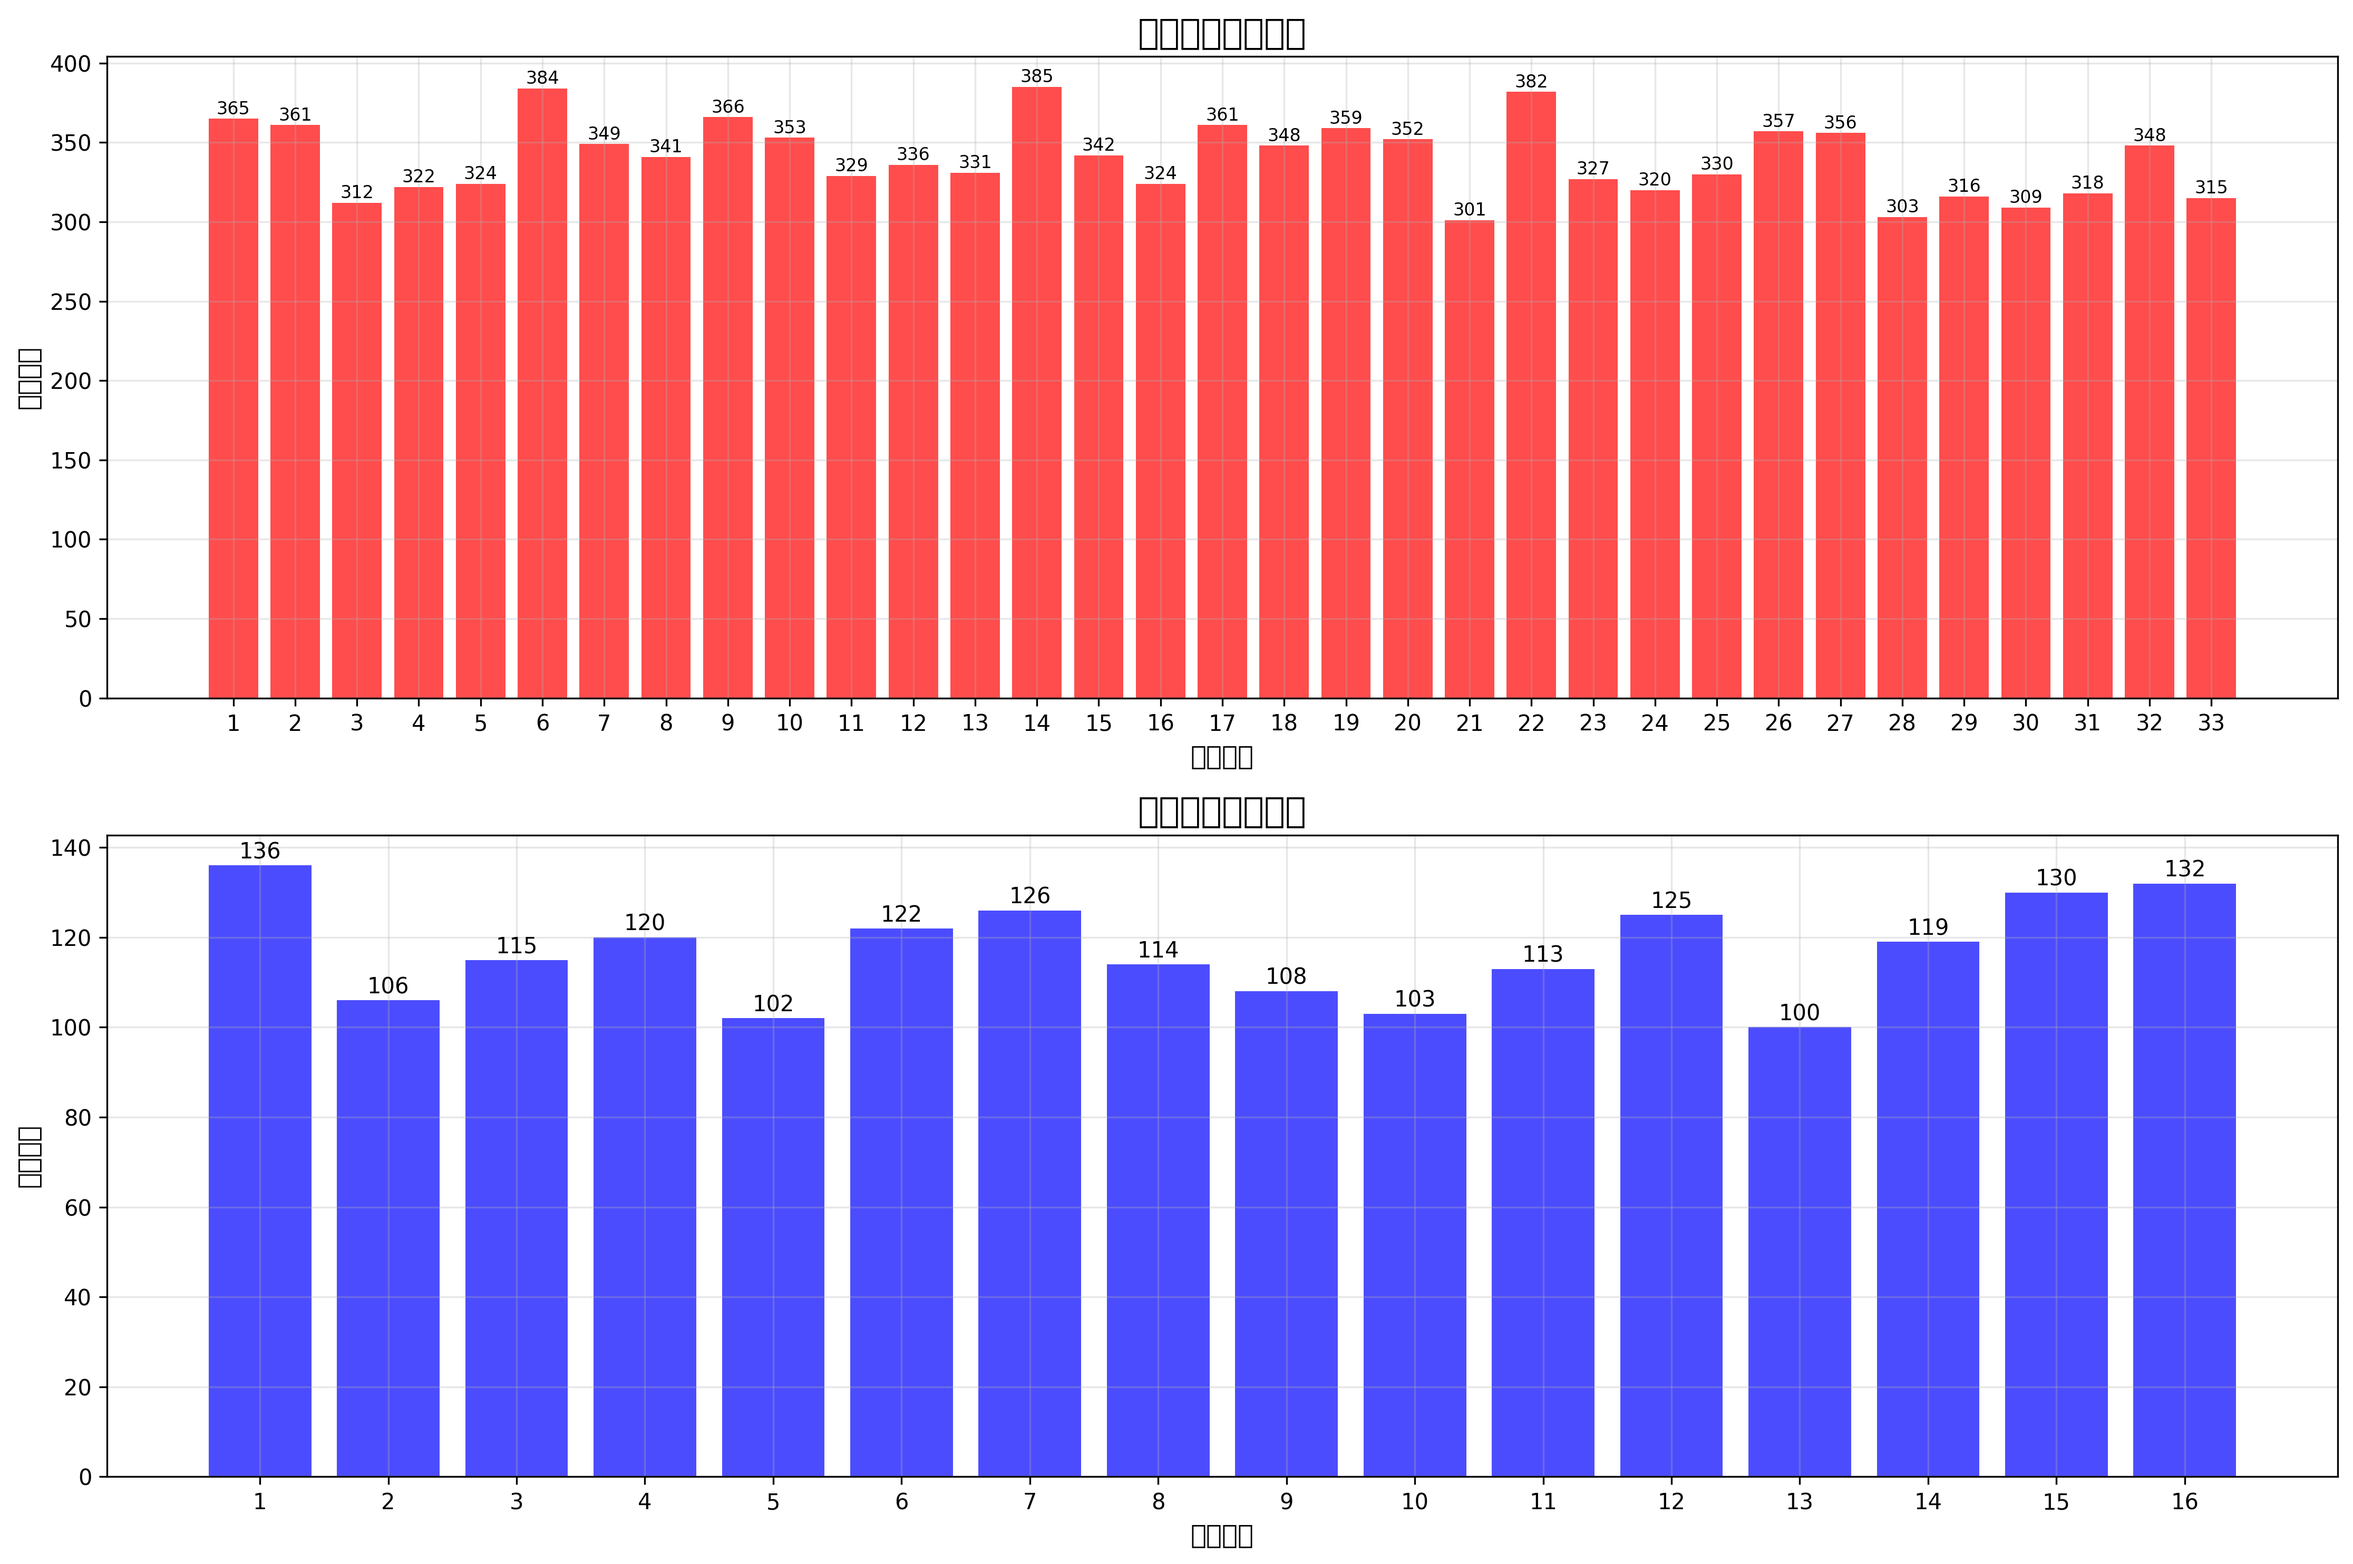
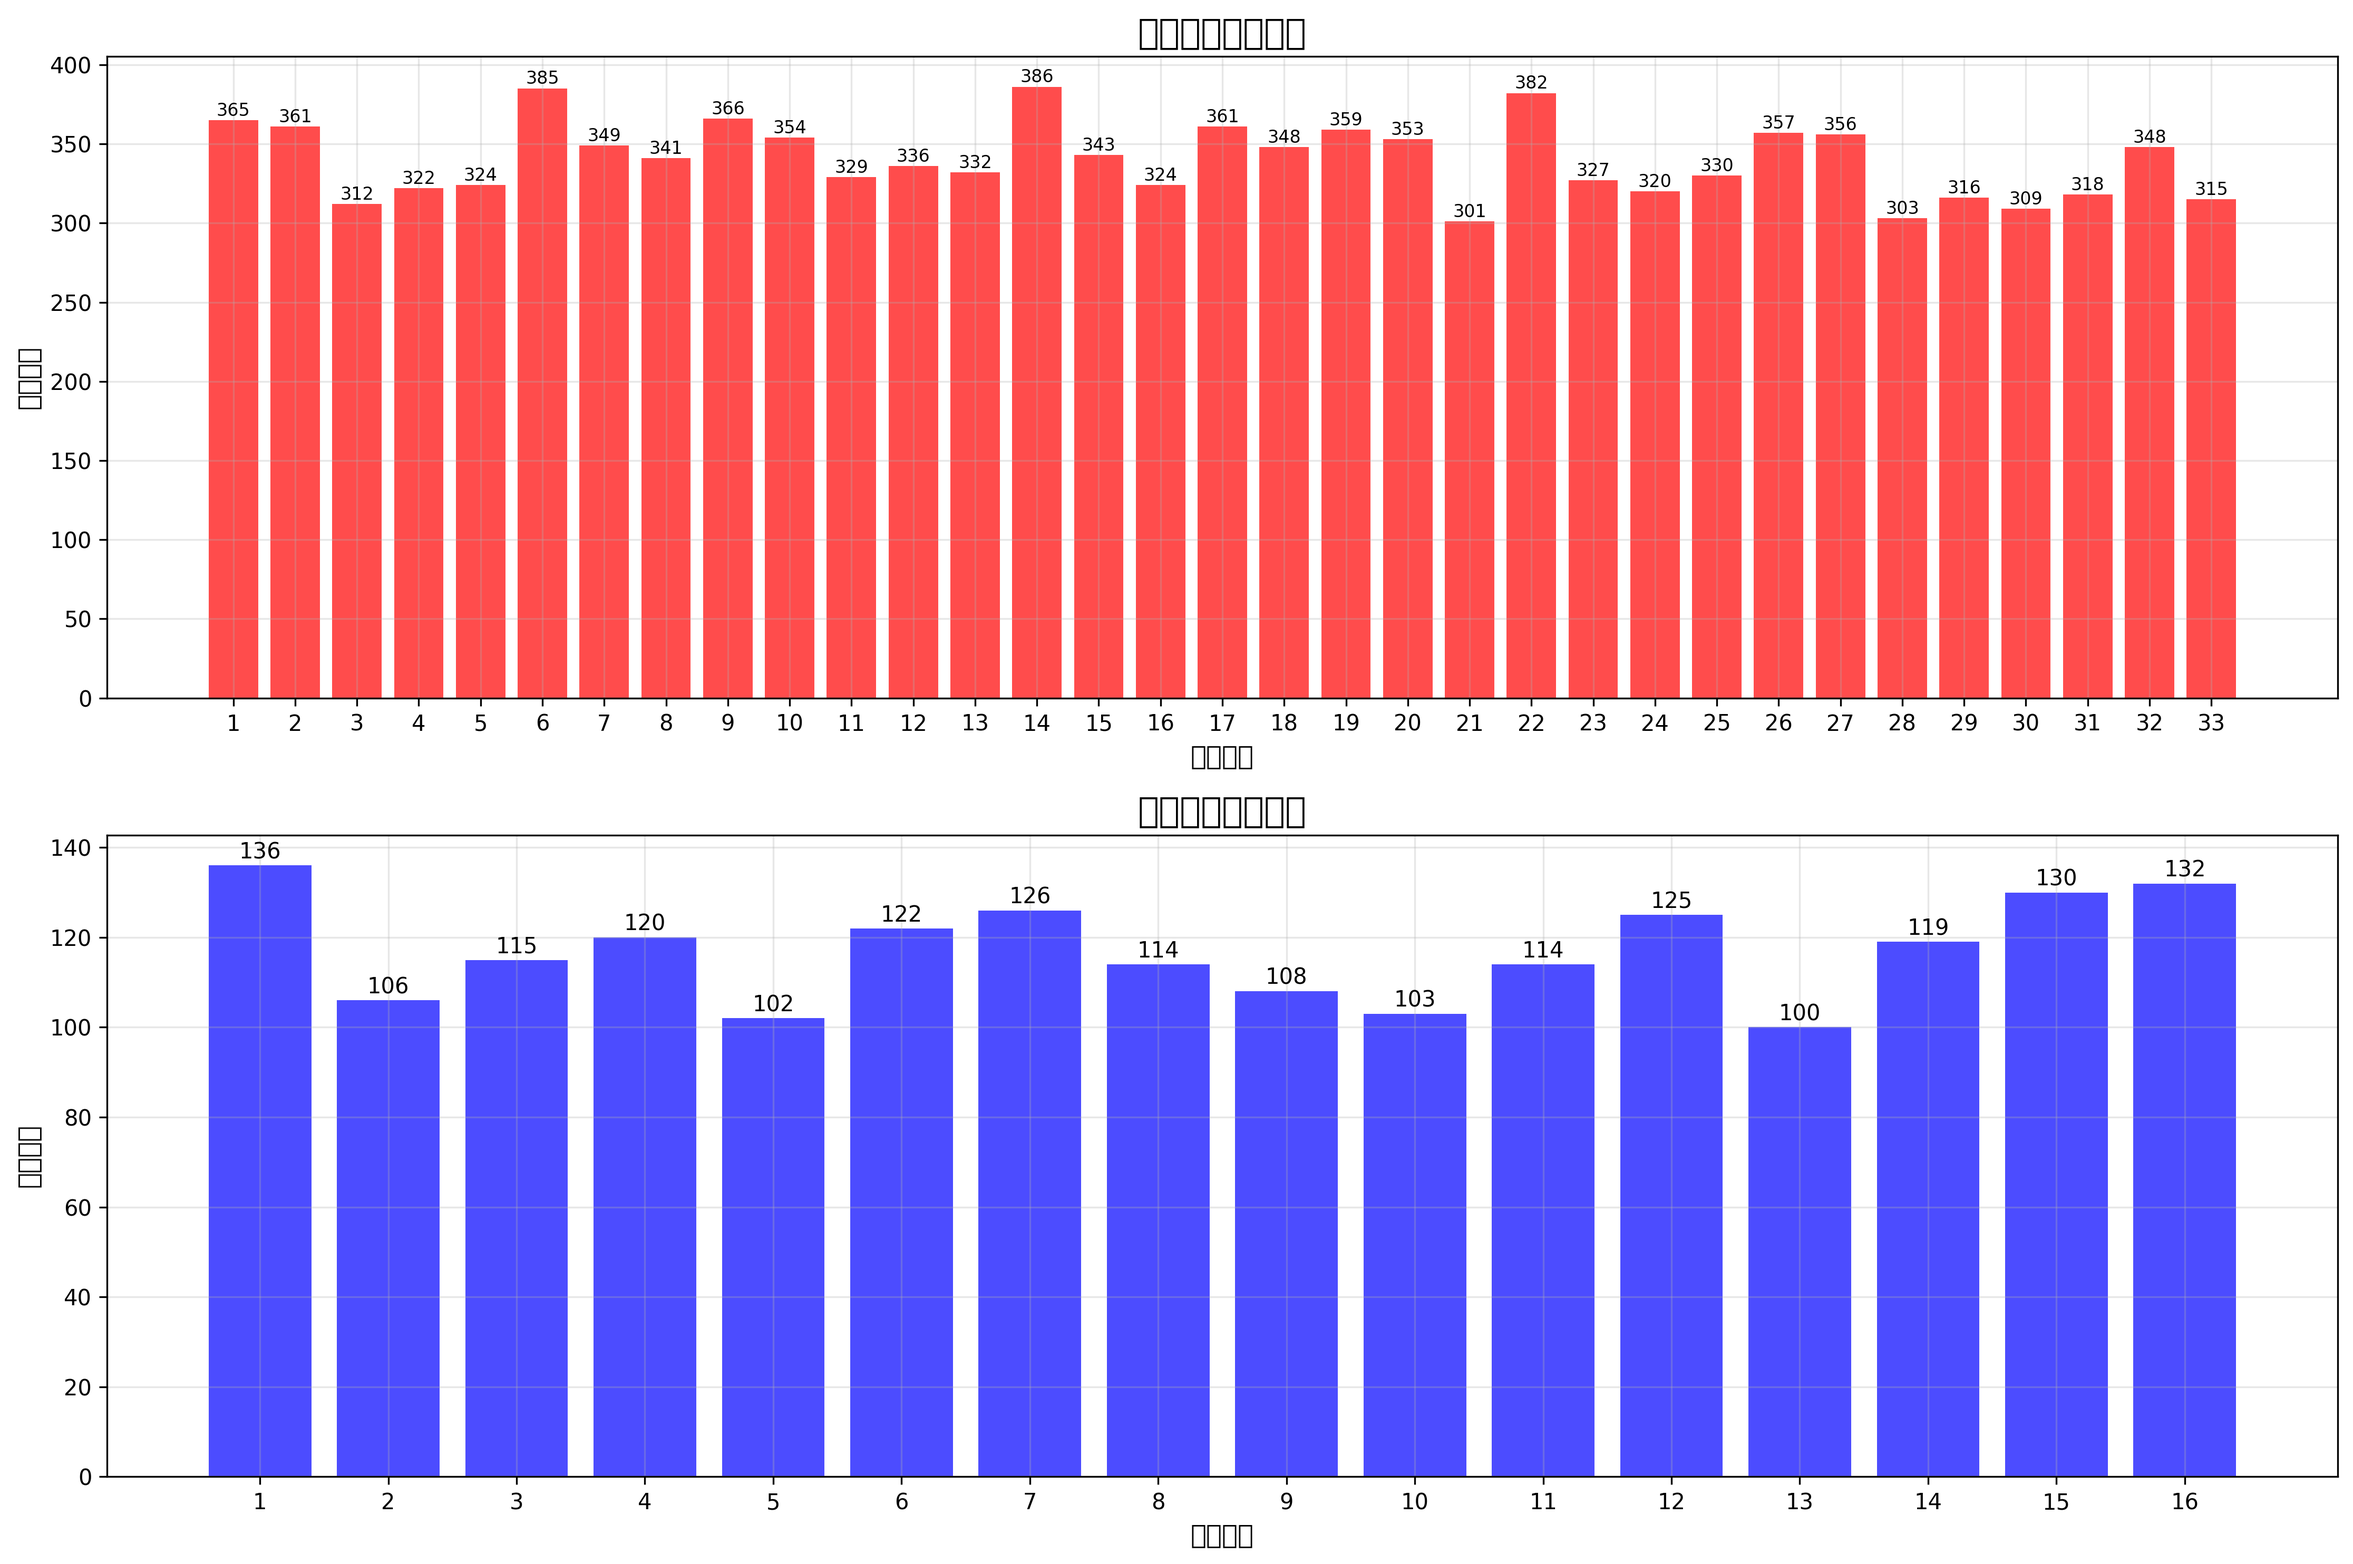
🎯 更新彩票数据和分析报告 - 2025-06-10 23:04:40 (UTC+8)

diff --git a/reports/analysis_report.md b/reports/analysis_report.md
@@ -1,9 +1,9 @@
 # 🎯 双色球数据分析报告
 
 ## 📊 报告信息
-- **生成时间**: 2025年06月09日 23:04:47 (UTC+8)
-- **数据期数**: 共 1871 期
-- **最新期号**: 2025064
+- **生成时间**: 2025年06月10日 23:04:40 (UTC+8)
+- **数据期数**: 共 1872 期
+- **最新期号**: 2025065
 - **数据来源**: 中国福利彩票官方API
 
 ## ⚠ 重要免责声明
@@ -15,6 +15,8 @@
 
 ### 最近5期开奖号码
 
+**2025065期** (2025-06-10): 06 10 13 14 15 20 + **11**
+
 **2025064期** (2025-06-08): 02 10 13 22 29 33 + **16**
 
 **2025063期** (2025-06-05): 02 19 21 22 28 30 + **01**
@@ -22,8 +24,6 @@
 **2025062期** (2025-06-03): 06 08 09 13 25 31 + **14**
 
 **2025061期** (2025-06-01): 06 07 09 10 11 32 + **09**
-
-**2025060期** (2025-05-29): 06 14 18 25 28 30 + **01**
 
 ---
 
@@ -33,8 +33,8 @@
 
 | 排名 | 号码 | 出现次数 | 出现频率 |
 |------|------|----------|----------|
-| 01 | **14** | 385 | 20.6% |
-| 02 | **06** | 384 | 20.5% |
+| 01 | **14** | 386 | 20.6% |
+| 02 | **06** | 385 | 20.6% |
 | 03 | **22** | 382 | 20.4% |
 | 04 | **09** | 366 | 19.6% |
 | 05 | **01** | 365 | 19.5% |
@@ -43,9 +43,9 @@
 | 08 | **19** | 359 | 19.2% |
 | 09 | **26** | 357 | 19.1% |
 | 10 | **27** | 356 | 19.0% |
-| 11 | **10** | 353 | 18.9% |
-| 12 | **20** | 352 | 18.8% |
-| 13 | **07** | 349 | 18.7% |
+| 11 | **10** | 354 | 18.9% |
+| 12 | **20** | 353 | 18.9% |
+| 13 | **07** | 349 | 18.6% |
 | 14 | **32** | 348 | 18.6% |
 | 15 | **18** | 348 | 18.6% |
 
@@ -62,7 +62,7 @@
 | 07 | **04** | 120 | 6.4% |
 | 08 | **14** | 119 | 6.4% |
 | 09 | **03** | 115 | 6.1% |
-| 10 | **08** | 114 | 6.1% |
+| 10 | **11** | 114 | 6.1% |
 
 ---
 
@@ -73,8 +73,8 @@
 | 分布类型 | 出现次数 | 出现频率 |
 |----------|----------|----------|
 | 3奇3偶 | 662 | 35.4% |
-| 4奇2偶 | 467 | 25.0% |
-| 2奇4偶 | 447 | 23.9% |
+| 4奇2偶 | 467 | 24.9% |
+| 2奇4偶 | 448 | 23.9% |
 | 5奇1偶 | 143 | 7.6% |
 | 1奇5偶 | 112 | 6.0% |
 | 6奇0偶 | 21 | 1.1% |
@@ -90,8 +90,8 @@
 | 40-49 | 10 | 0.5% |
 | 50-59 | 37 | 2.0% |
 | 60-69 | 82 | 4.4% |
-| 70-79 | 161 | 8.6% |
-| 80-89 | 263 | 14.1% |
+| 70-79 | 162 | 8.7% |
+| 80-89 | 263 | 14.0% |
 | 90-99 | 326 | 17.4% |
 | 100-109 | 343 | 18.3% |
 | 110-119 | 302 | 16.1% |
@@ -108,11 +108,11 @@
 | 跨度范围 | 出现次数 | 出现频率 |
 |----------|----------|----------|
 | 5-9 | 4 | 0.2% |
-| 10-14 | 69 | 3.7% |
+| 10-14 | 70 | 3.7% |
 | 15-19 | 265 | 14.2% |
 | 20-24 | 563 | 30.1% |
 | 25-29 | 707 | 37.8% |
-| 30-34 | 263 | 14.1% |
+| 30-34 | 263 | 14.0% |
 
 
 ---
@@ -123,6 +123,7 @@
 
 | 期号 | 开奖日期 | 红球号码 | 蓝球 |
 |------|----------|----------|------|
+| 2025065 | 2025-06-10 | 06 10 13 14 15 20 | **11** |
 | 2025064 | 2025-06-08 | 02 10 13 22 29 33 | **16** |
 | 2025063 | 2025-06-05 | 02 19 21 22 28 30 | **01** |
 | 2025062 | 2025-06-03 | 06 08 09 13 25 31 | **14** |
@@ -132,12 +133,11 @@
 | 2025058 | 2025-05-25 | 02 06 07 09 10 20 | **06** |
 | 2025057 | 2025-05-22 | 04 09 15 16 25 30 | **14** |
 | 2025056 | 2025-05-20 | 01 02 10 14 28 31 | **03** |
-| 2025055 | 2025-05-18 | 02 05 22 27 29 33 | **12** |
 
 
 ### 热号分析
 
-**最近10期红球热号（出现2次及以上）**: 02 04 06 07 09 10 11 13 14 22 25 28 29 30 31 33
+**最近10期红球热号（出现2次及以上）**: 02 04 06 07 09 10 11 13 14 15 20 22 25 28 30 31
 
 **最近10期蓝球热号（出现2次及以上）**: 01 14
 
@@ -222,6 +222,6 @@
 
 ---
 
-*报告生成时间: 2025年06月09日 23:04:47 (UTC+8)*  
+*报告生成时间: 2025年06月10日 23:04:40 (UTC+8)*  
 *数据来源: 中国福利彩票官方网站*  
 *仅供学习研究使用，请理性购彩*
